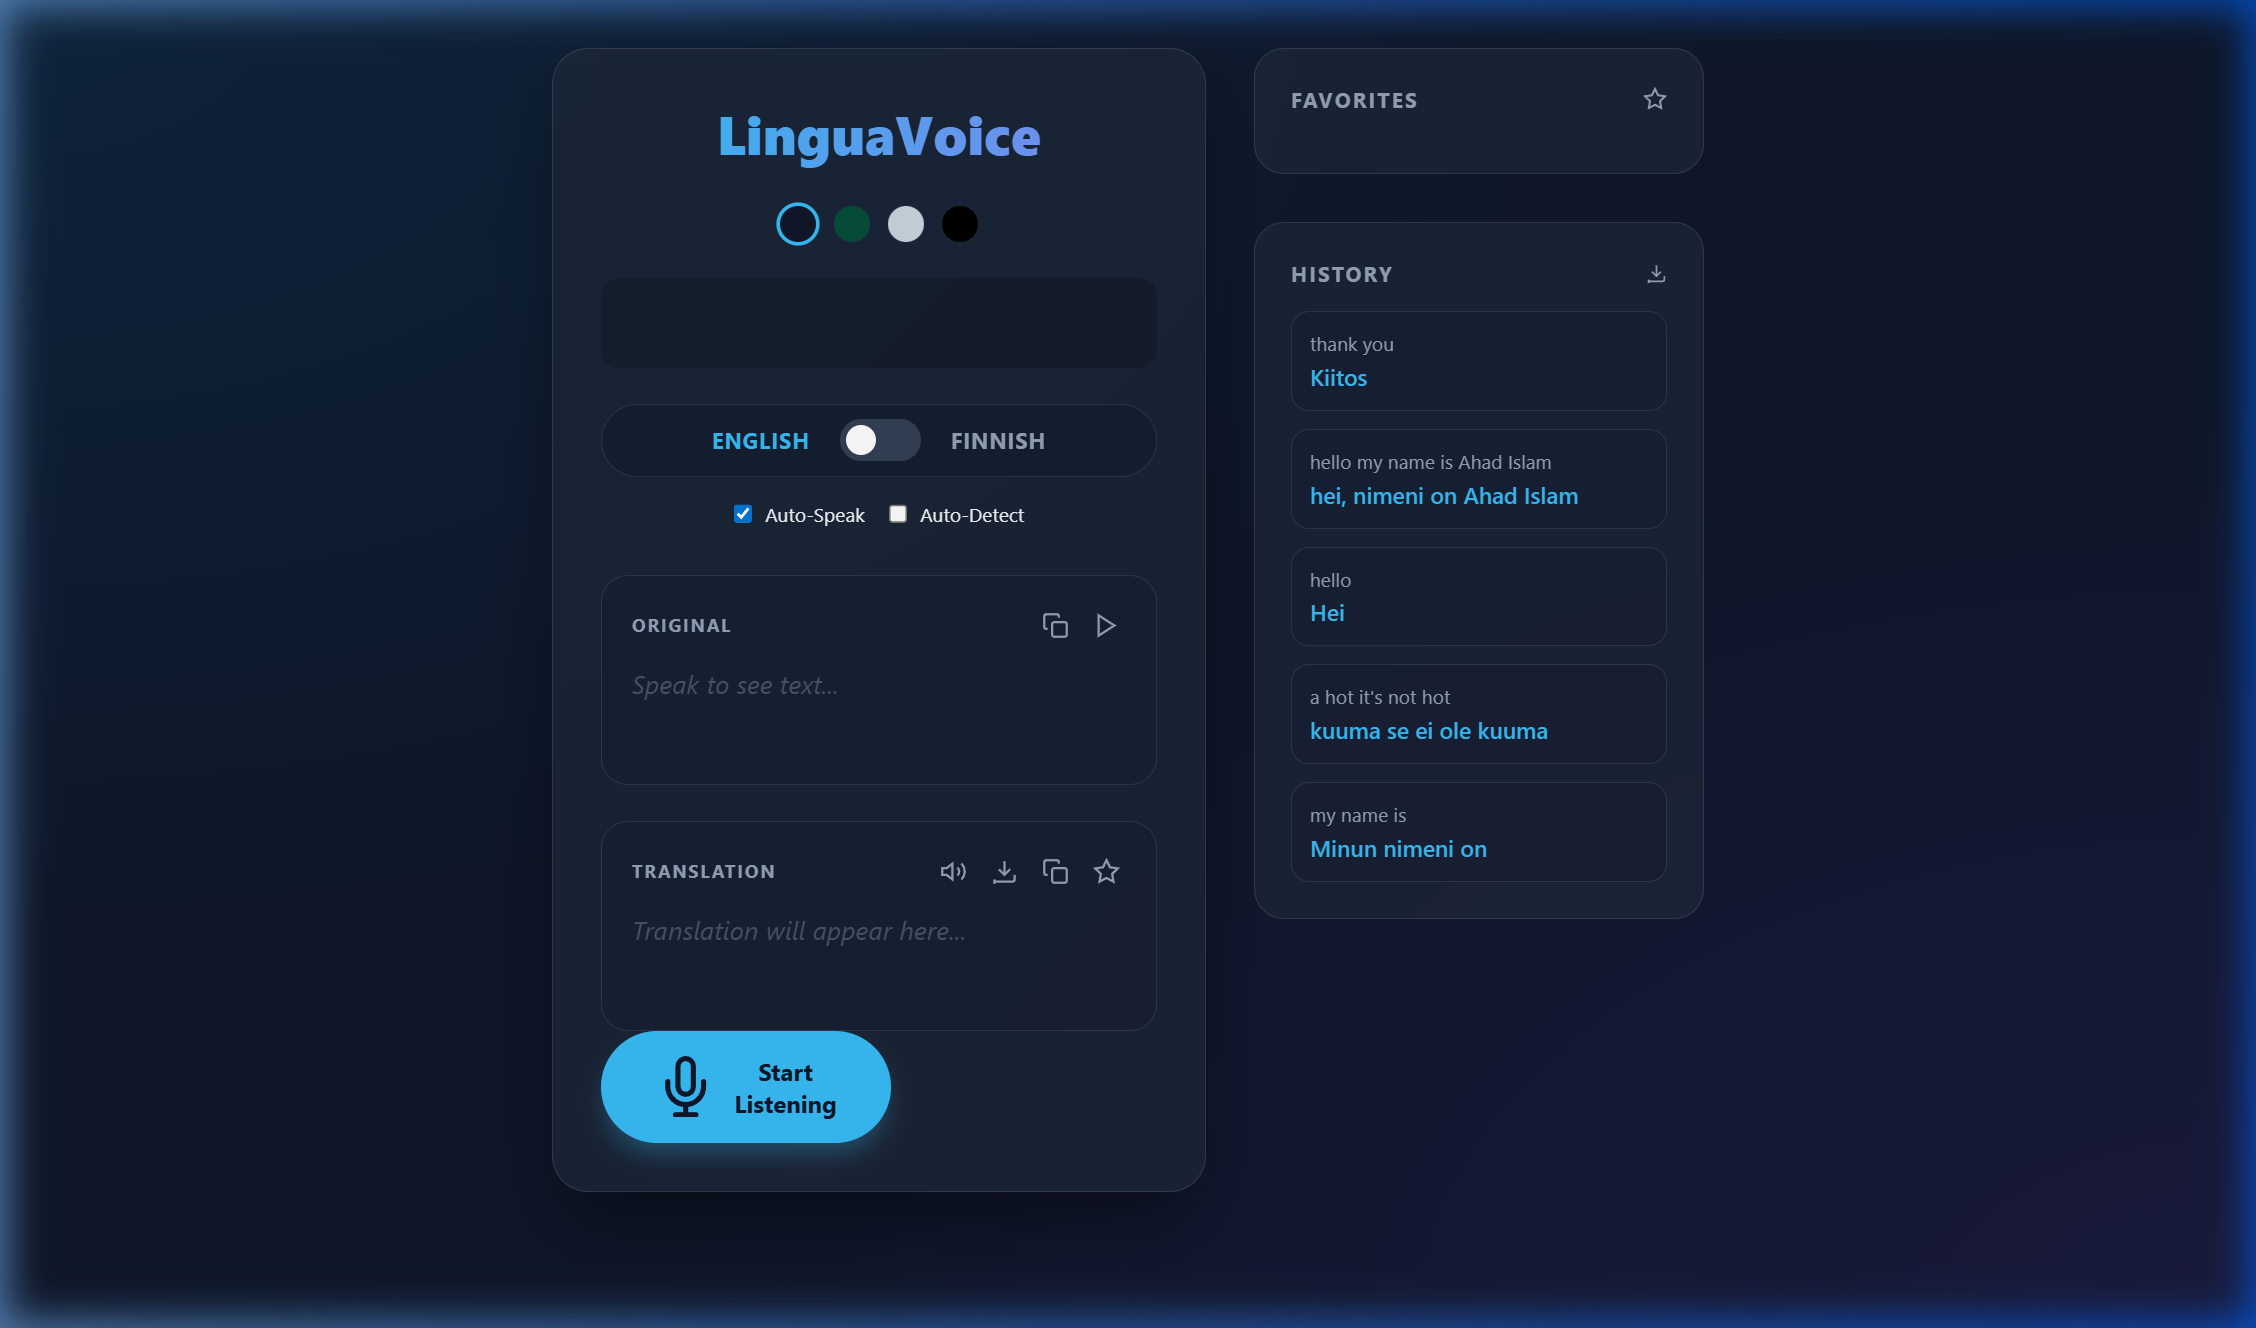
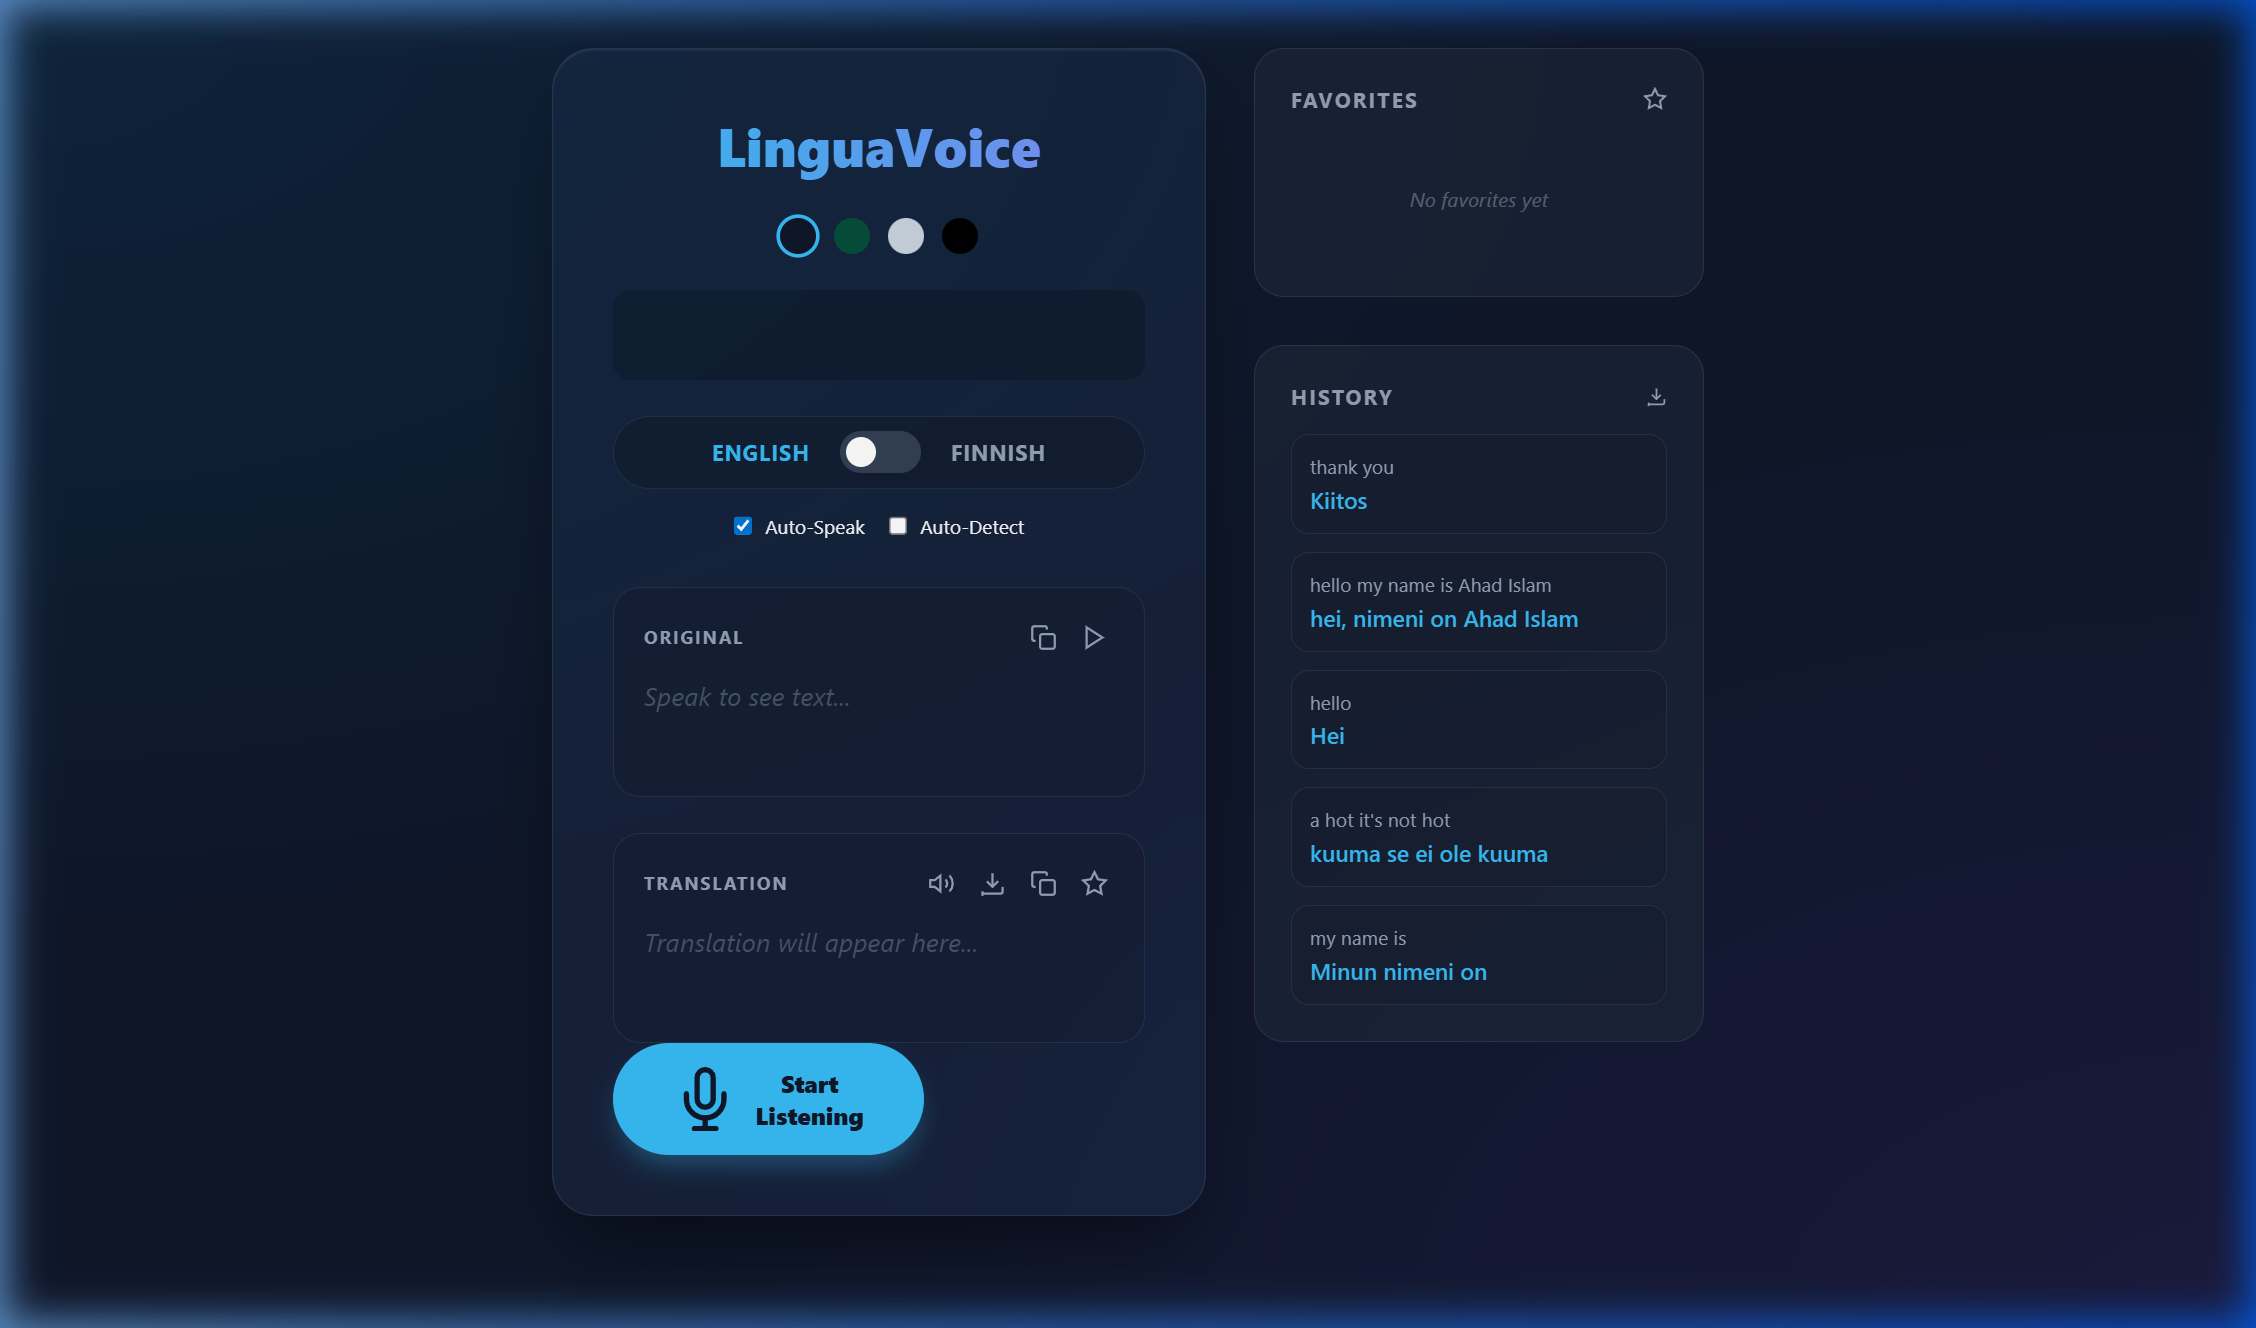
LinguaVoice v4.0: Premium UI/UX Refinement and Documentation Update

diff --git a/src/style.css b/src/style.css
@@ -1,12 +1,13 @@
 :root {
   /* Default: Midnight Theme (Slate/Sky) */
   --bg-color: #0f172a;
-  --card-bg: rgba(30, 41, 59, 0.7);
+  --card-bg: rgba(30, 41, 59, 0.6);
   --accent-color: #38bdf8;
   --accent-secondary: #818cf8;
-  --text-primary: #f1f5f9;
+  --text-primary: #f8fafc;
   --text-secondary: #94a3b8;
-  --glass-border: rgba(255, 255, 255, 0.1);
+  --glass-border: rgba(255, 255, 255, 0.08);
+  --glass-glow: rgba(56, 189, 248, 0.15);
   --error: #f43f5e;
   --success: #10b981;
 }
@@ -45,7 +46,25 @@
   box-sizing: border-box;
   margin: 0;
   padding: 0;
-  font-family: 'Inter', system-ui, -apple-system, sans-serif;
+  font-family: 'Outfit', 'Inter', system-ui, sans-serif;
+}
+
+/* Custom Scrollbar */
+::-webkit-scrollbar {
+  width: 6px;
+}
+
+::-webkit-scrollbar-track {
+  background: transparent;
+}
+
+::-webkit-scrollbar-thumb {
+  background: rgba(255, 255, 255, 0.1);
+  border-radius: 10px;
+}
+
+::-webkit-scrollbar-thumb:hover {
+  background: var(--accent-color);
 }
 
 body {
@@ -84,14 +103,39 @@ body {
 
 .glass-card {
   background: var(--card-bg);
-  backdrop-filter: blur(12px);
-  -webkit-backdrop-filter: blur(12px);
+  backdrop-filter: blur(16px) saturate(180%);
+  -webkit-backdrop-filter: blur(16px) saturate(180%);
   border: 1px solid var(--glass-border);
-  border-radius: 24px;
-  padding: 2rem;
-  box-shadow: 0 25px 50px -12px rgba(0, 0, 0, 0.5);
+  border-radius: 28px;
+  padding: 2.5rem;
+  box-shadow:
+    0 25px 50px -12px rgba(0, 0, 0, 0.5),
+    inset 0 1px 1px var(--glass-border);
   margin-bottom: 2rem;
-  transition: all 0.5s ease;
+  transition: all 0.5s cubic-bezier(0.4, 0, 0.2, 1);
+  animation: slideUp 0.8s ease-out;
+}
+
+@keyframes slideUp {
+  from {
+    opacity: 0;
+    transform: translateY(30px);
+  }
+
+  to {
+    opacity: 1;
+    transform: translateY(0);
+  }
+}
+
+@keyframes fadeIn {
+  from {
+    opacity: 0;
+  }
+
+  to {
+    opacity: 1;
+  }
 }
 
 h1 {
@@ -353,21 +397,25 @@ input:checked+.slider:before {
   background: var(--accent-color);
   color: #0f172a;
   border: none;
-  padding: 1rem 2.25rem;
+  padding: 1rem 2.5rem;
   border-radius: 100px;
   font-size: 1rem;
-  font-weight: 700;
+  font-weight: 800;
   cursor: pointer;
   display: flex;
   align-items: center;
   gap: 0.75rem;
-  transition: all 0.3s cubic-bezier(0.4, 0, 0.2, 1);
+  transition: all 0.4s cubic-bezier(0.175, 0.885, 0.32, 1.275);
   box-shadow: 0 10px 15px -3px rgba(56, 189, 248, 0.3);
 }
 
 .listen-btn:hover {
-  transform: translateY(-2px);
-  box-shadow: 0 20px 25px -5px rgba(56, 189, 248, 0.4);
+  transform: translateY(-4px) scale(1.05);
+  box-shadow: 0 20px 25px -5px rgba(56, 189, 248, 0.5);
+}
+
+.listen-btn:active {
+  transform: translateY(0) scale(0.95);
 }
 
 .listen-btn.listening {
@@ -448,6 +496,32 @@ input:checked+.slider:before {
   font-size: 0.95rem;
   color: var(--accent-color);
   font-weight: 600;
+}
+
+.empty-state {
+  text-align: center;
+  padding: 2rem 0;
+  opacity: 0.5;
+  font-style: italic;
+  font-size: 0.85rem;
+  color: var(--text-secondary);
+  animation: fadeIn 1s ease-in;
+}
+
+.keyboard-hint {
+  font-size: 0.7rem;
+  color: var(--text-secondary);
+  margin-top: 1rem;
+  text-align: center;
+  opacity: 0.6;
+}
+
+kbd {
+  background: rgba(255, 255, 255, 0.1);
+  border-radius: 4px;
+  padding: 2px 6px;
+  border: 1px solid var(--glass-border);
+  font-family: monospace;
 }
 
 .star-btn {

diff --git a/src/main.js b/src/main.js
@@ -120,6 +120,10 @@ const toggleFavorite = () => {
 };
 
 const renderHistory = () => {
+  if (history.length === 0) {
+    historyList.innerHTML = '<div class="empty-state">No recent translations</div>';
+    return;
+  }
   historyList.innerHTML = history.map(item => `
     <div class="item-card" onclick="document.getElementById('original-text').textContent='${item.orig.replace(/'/g, "\\'")}'; document.getElementById('translated-text').textContent='${item.trans.replace(/'/g, "\\'")}';">
       <div class="orig">${item.orig}</div>
@@ -129,6 +133,10 @@ const renderHistory = () => {
 };
 
 const renderFavorites = () => {
+  if (favorites.length === 0) {
+    favoritesList.innerHTML = '<div class="empty-state">No favorites yet</div>';
+    return;
+  }
   favoritesList.innerHTML = favorites.map(item => `
     <div class="item-card">
       <div class="orig">${item.orig}</div>
@@ -185,9 +193,24 @@ const draw = () => {
 
   for (let i = 0; i < dataArray.length; i++) {
     const barHeight = (dataArray[i] / 255) * height;
-    ctx.fillStyle = getComputedStyle(body).getPropertyValue('--accent-color');
-    ctx.fillRect(x, height - barHeight, barWidth, barHeight);
-    x += barWidth + 1;
+
+    // Gradient Glow
+    const gradient = ctx.createLinearGradient(0, height - barHeight, 0, height);
+    gradient.addColorStop(0, getComputedStyle(body).getPropertyValue('--accent-color'));
+    gradient.addColorStop(1, getComputedStyle(body).getPropertyValue('--accent-secondary'));
+
+    ctx.fillStyle = gradient;
+    ctx.shadowBlur = 10;
+    ctx.shadowColor = getComputedStyle(body).getPropertyValue('--accent-color');
+
+    // Rounded bars
+    const radius = 4;
+    ctx.beginPath();
+    ctx.roundRect(x, height - barHeight, barWidth, barHeight, [radius, radius, 0, 0]);
+    ctx.fill();
+
+    ctx.shadowBlur = 0; // Reset for next bar
+    x += barWidth + 2;
   }
 };
 
@@ -353,6 +376,17 @@ downloadBtn.addEventListener('click', () => {
 copyTransBtn.addEventListener('click', () => copyToClipboard(translatedDisplay.textContent));
 starBtn.addEventListener('click', toggleFavorite);
 exportBtn.addEventListener('click', exportHistory);
+
+// Keyboard Shortcuts
+window.addEventListener('keydown', (e) => {
+  if (e.code === 'Space' && e.target === document.body) {
+    e.preventDefault();
+    listenBtn.click();
+  }
+  if (e.ctrlKey && e.key === 'c' && translatedDisplay.textContent) {
+    copyToClipboard(translatedDisplay.textContent);
+  }
+});
 
 // Initial Load
 renderHistory();

diff --git a/index.html b/index.html
@@ -7,7 +7,10 @@
   <meta name="viewport" content="width=device-width, initial-scale=1.0" />
   <link rel="manifest" href="/manifest.json" />
   <meta name="theme-color" content="#38bdf8" />
-  <title>LinguaVoice v3.0 | AI Language Assistant</title>
+  <link rel="preconnect" href="https://fonts.googleapis.com">
+  <link rel="preconnect" href="https://fonts.gstatic.com" crossorigin>
+  <link href="https://fonts.googleapis.com/css2?family=Outfit:wght@300;400;600;800&display=swap" rel="stylesheet">
+  <title>LinguaVoice v4.0 | Premium AI Translator</title>
 </head>
 
 <body data-theme="midnight">
@@ -119,6 +122,9 @@
             </svg>
             <span id="btn-text">Start Listening</span>
           </button>
+          <div class="keyboard-hint">
+            Press <kbd>Space</kbd> to record | <kbd>Ctrl+C</kbd> to copy
+          </div>
         </div>
       </div>
     </div>

diff --git a/README.md b/README.md
@@ -1,13 +1,20 @@
-# LinguaVoice v3.0
+# LinguaVoice v4.0
 
-**LinguaVoice** is a premium, real-time voice translation application designed for seamless interpretation between **English** and **Finnish**. Built with a focus on low latency and a stunning user experience, it transforms your browser into a powerful language assistant.
+**LinguaVoice** is a premium, real-time voice translation application designed exclusively for seamless bi-directional interpretation between **English** and **Finnish**. This app is dedicated specifically to English-to-Finnish and Finnish-to-English translations only.
 
 ![LinguaVoice Preview](screenshots/preview.png)
 
 ## ✨ Features
 
 - **🎙 Real-time Voice Recognition**: Powered by the Web Speech API for high-accuracy, low-latency transcription.
-- **🎨 Premium Glassmorphism UI**: A modern, sleek interface with 4 unique themes (Midnight, Forest, Arctic, Obsidian).
+- **🎨 Premium UI/UX (v4.0)**: 
+  - **Glassmorphism 2.0**: High-blur cards with subtle inner glows.
+  - **Premium Typography**: Modern 'Outfit' font for better readability.
+  - **Smooth Animations**: Animated entry effects and interactive scale transitions.
+- **🌈 Visualizer 2.0**: Enhanced frequency bars with dynamic gradients and glow.
+- **⌨ Keyboard Shortcuts**: 
+  - `Space`: Start/Stop recording.
+  - `Ctrl+C`: Copy translation.
 - **🗣 Advanced Audio Tools**:
   - **Auto-Speak**: Hear translations automatically.
   - **Original Playback**: Listen to your own transcribed voice.
